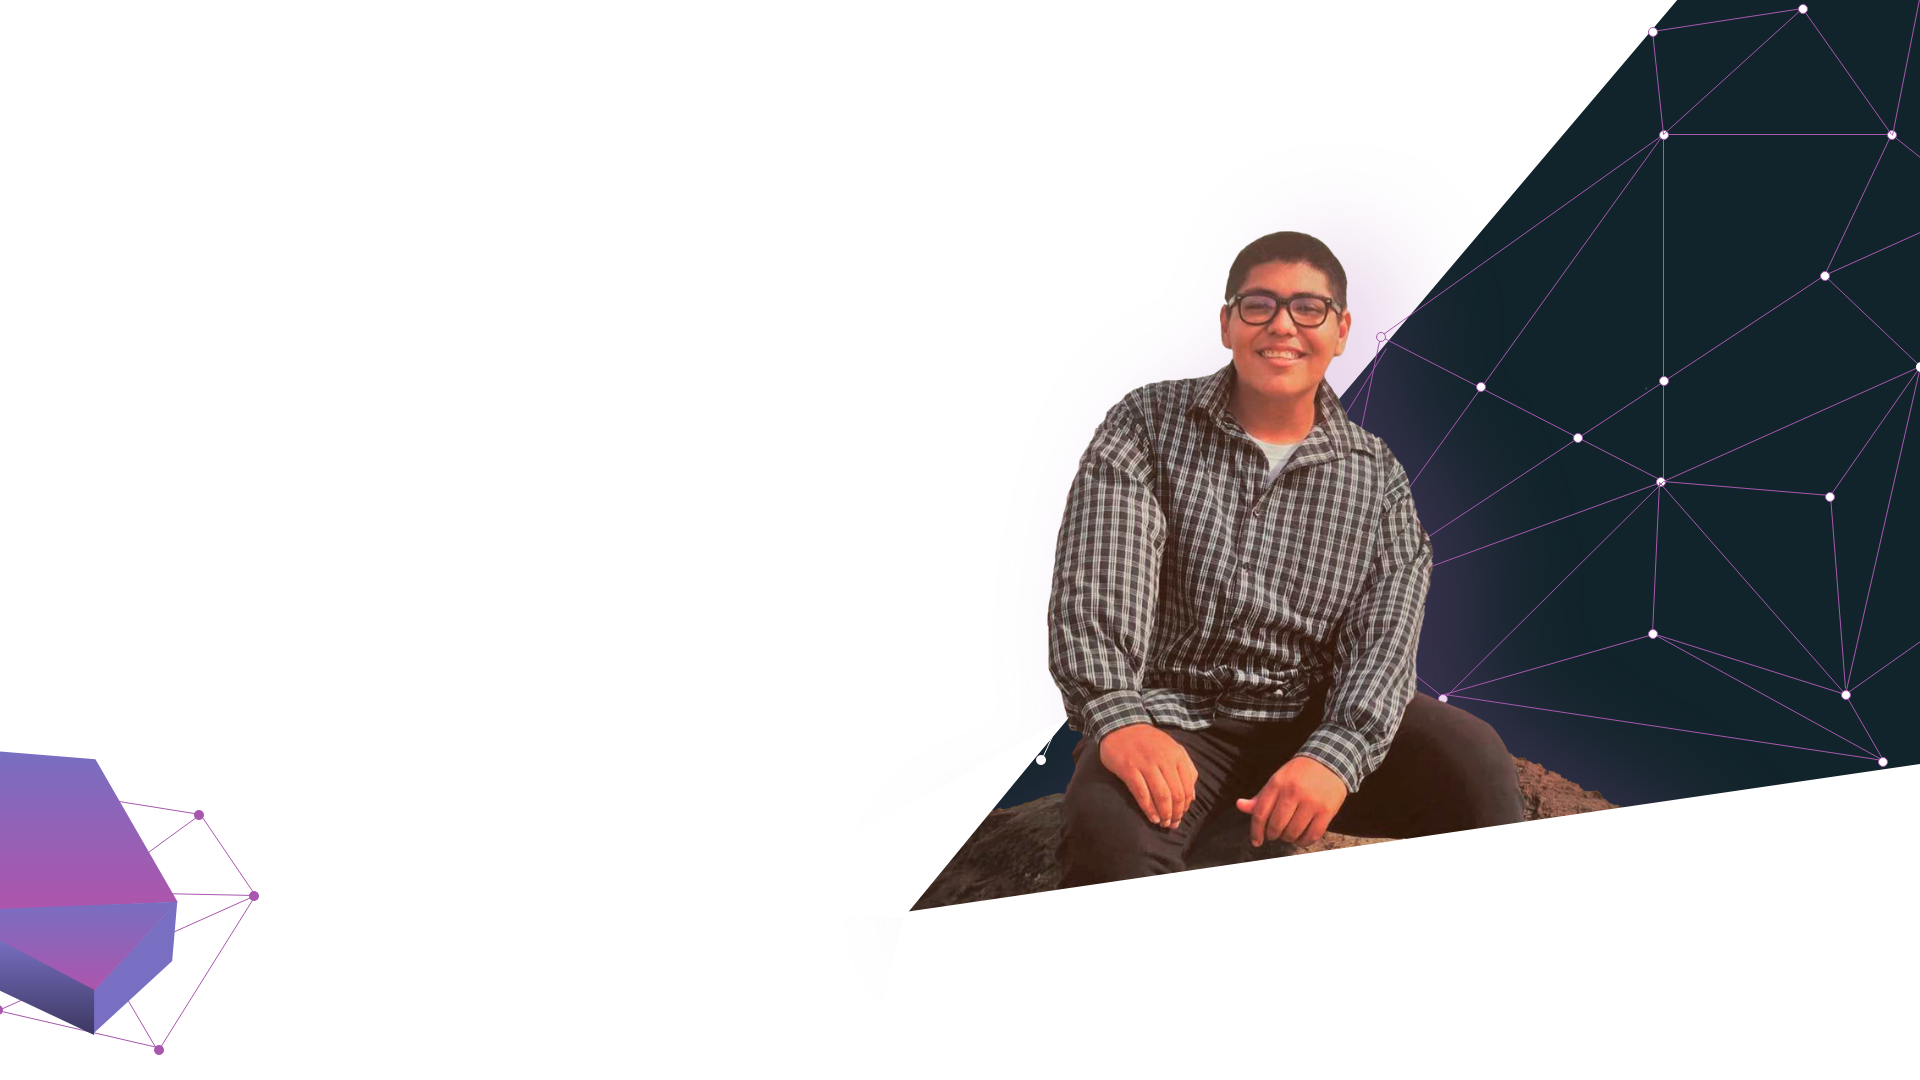
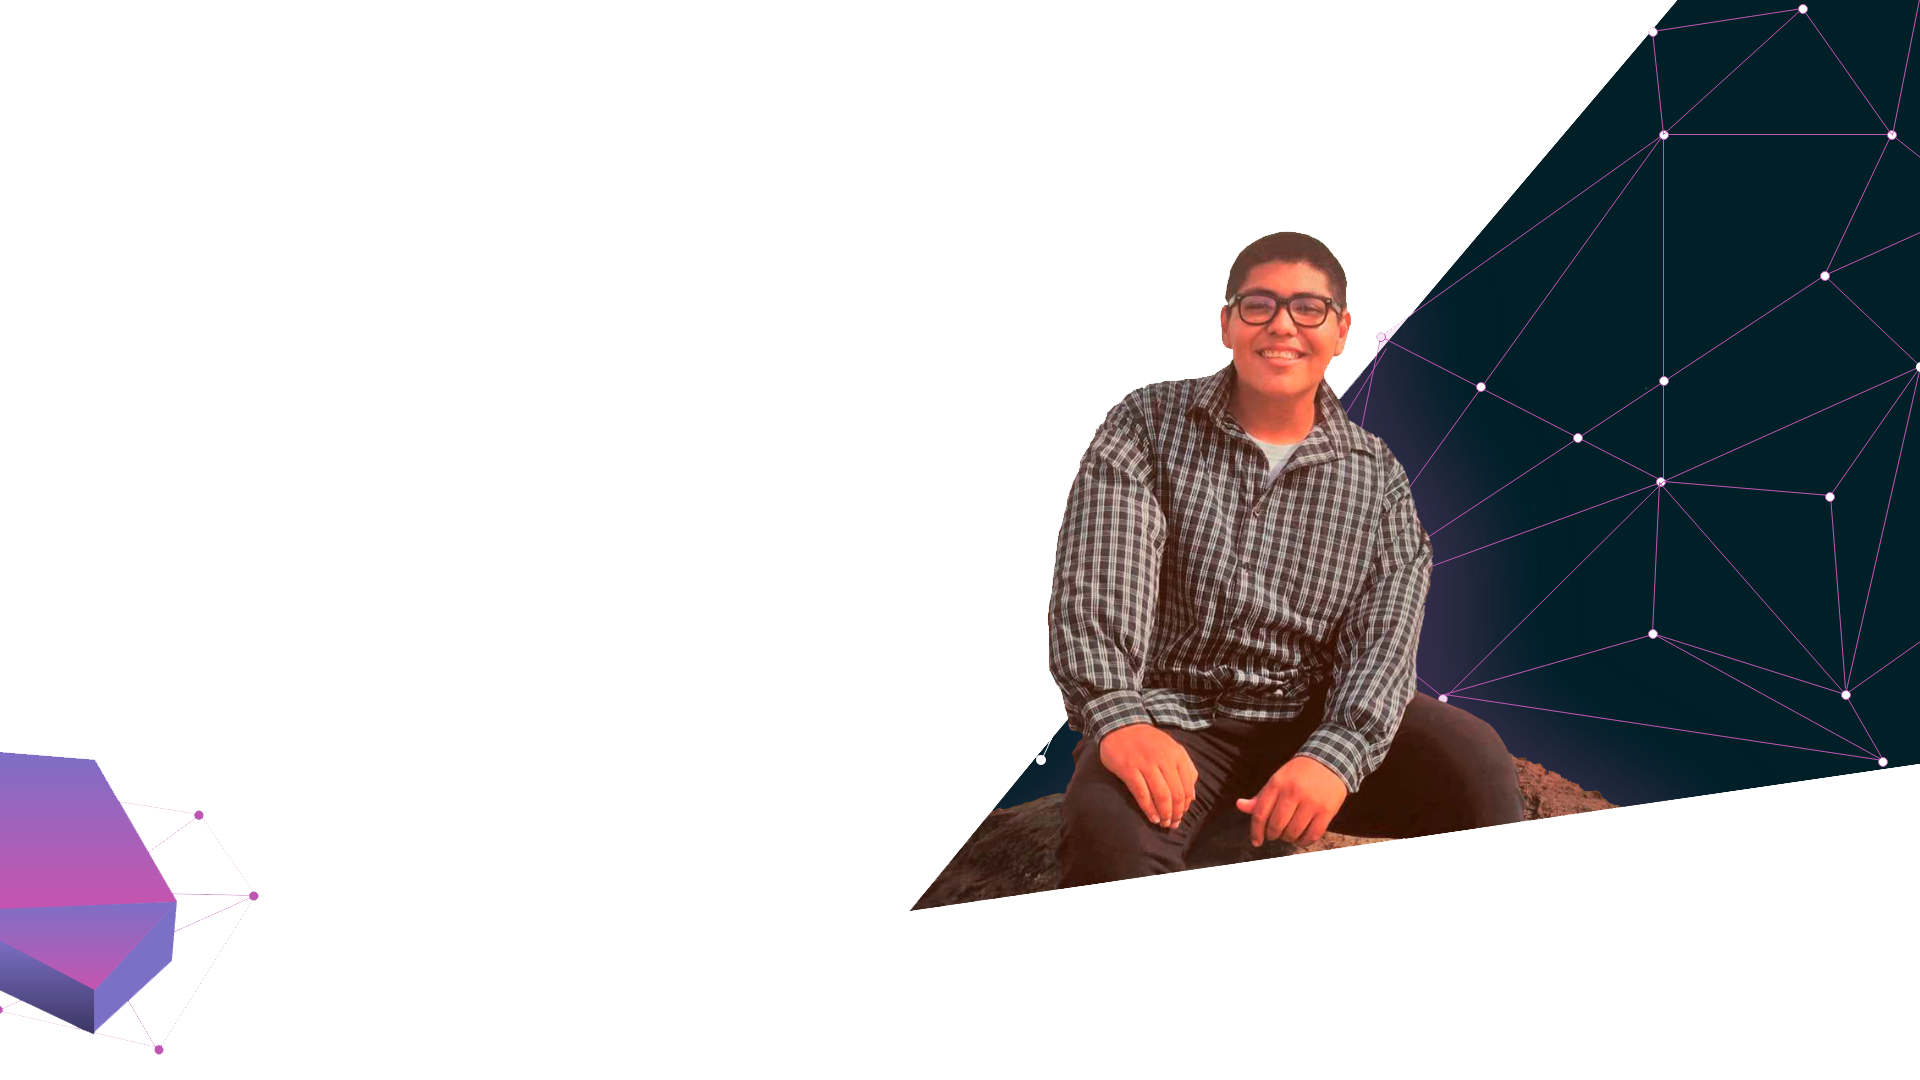
tema dark

diff --git a/src/app/components/home/home.component.scss b/src/app/components/home/home.component.scss
@@ -424,7 +424,7 @@ box-shadow: 10px 10px 31px -12px rgba(0,0,0,0.75);
     position: relative;
     background-image: url(/../assets/images/fondo-services.jpg);
     width: 100%;
-    height: 70px;
+    height: 150px;
     /* object-fit: cover; */
     background-size: cover;
     background-attachment: fixed;
@@ -443,7 +443,7 @@ a:hover{
     color: var(--color-primary);
 }
 
-
+// botones 
 .button-primary-normal-home{
     background-color: #A758AE;
     color: #fff;
@@ -717,7 +717,7 @@ a:hover{
 /* inputs  */
 .inputs{
     background-color: transparent;
-    color: #fff;
+    color: var(--color-black);
     border-radius: 20px;
 }
  
@@ -732,6 +732,75 @@ a:hover{
 }
 
 
+
+
+// temas
+.tema-dark {
+  background-color: var(--color-black);
+  transition: 0.8s;
+
+ 
+  // seccion sobre mi 
+  .seccion .color-text-secondary{
+    color: rgb(218, 218, 218);
+    transition: 0.8s;
+
+  }
+  .color-white-fondo{
+    background-color: var(--color-black);
+    color: #fff;
+    transition: 0.8s;
+
+    a{
+      color: rgb(212, 212, 212);
+      transition: 0.8s;
+
+    }
+  }
+  // seccion home 
+  .portada .title-primary, .title-secondary, .color-text-secondary{
+    color: #fff;
+    transition: 0.8s;
+  }
+
+  .container-cards .card1{
+    background-color: var(--color-black);
+    color: rgb(218, 218, 218);
+    transition: 0.8s;
+    &:hover{
+      box-shadow: #A758AE;
+
+    -webkit-box-shadow: 10px 10px 31px -12px #A758AE;
+    -moz-box-shadow: 10px 10px 31px -12px #A758AE;
+    box-shadow: 10px 10px 31px -12px #A758AE;
+    }
+  }
+
+  .color-text{
+    color: rgb(218, 218, 218);
+    transition: 0.8s;
+  }
+  .inputs{
+    color: var(--color-white);
+  }
+  .color-black{
+    color: rgb(218, 218, 218);
+  }
+
+
+
+  
+}
+
+.tema-light{
+    background-color: var(--color-white);
+    transition: 0.8s;
+  }
+
+
+
+
+// media 
 @media (max-width: 900px){
     .imagen-perfil-sobremi{
         margin-left: auto;
@@ -792,20 +861,4 @@ a:hover{
 }
 
 
-
-
-// temas
-.tema-dark{
-  background-color: var(--color-black);
-  transition: 0.5s;
-
-  .seccion .color-text-secondary{
-    color: #fff;
-  }
-}
-
-.tema-light{
-    background-color: var(--color-white);
-    transition: 0.5s;
-}
 

diff --git a/src/app/components/home/home.component.html b/src/app/components/home/home.component.html
@@ -569,12 +569,11 @@
 
     <div class="fondo-servicios">
         <section class="seccion">
-
         </section>
     </div>
 
 
-    <section class="color-black-fondo seccion-contactame position-relative" id="contacto">
+    <section class="color-white-fondo seccion-contactame position-relative" id="contacto">
         <img class="imagen-forma-footer" src="assets/images/forma1.png" alt="">
         <img class="imagen-forma-footer-derecha" src="assets/images/forma3.png" alt="">
 
@@ -583,7 +582,7 @@
             <div class="justify-content-center row ">
                 <div class="col-12 col-xl-5 col-lg-5 col-md-5 col-sm-12 col-xs-12">
                     <div data-aos="fade-up">
-                        <h1 class="color-white titulo-experiencia-contactame position-relative text-center">Contáctame
+                        <h1 class="color-black titulo-experiencia-contactame position-relative text-center">Contáctame
                         </h1>
                     </div>
                     <div data-aos="fade-up">

diff --git a/src/styles.css b/src/styles.css
@@ -2,7 +2,7 @@
 /* Estilos globales  */
 :root{
     /* colores  */
-    --color-black: #12242B;
+    --color-black: #001F27;
     --color-white: #ffff;
     --color-primary: #A758AE;
     --color-secondary: #786EC1;
@@ -50,6 +50,11 @@ body::-webkit-scrollbar-thumb{
 
 /* colores  */
 .color-black{
+    /* background-color: var(--color-black); */
+    color: var(--color-black);
+}
+
+.color-black-footer{
     background-color: var(--color-black);
 }
 

diff --git a/src/app/components/shared/footer/footer.component.html b/src/app/components/shared/footer/footer.component.html
@@ -1,4 +1,4 @@
-<footer class="color-black footer d-flex position-relative ">
+<footer class="color-black-footer footer d-flex position-relative ">
     <img class="imagen-forma-footer" src="assets/images/forma4.png" alt="">
     <div class="container">
         <div class="row justify-content-center">
